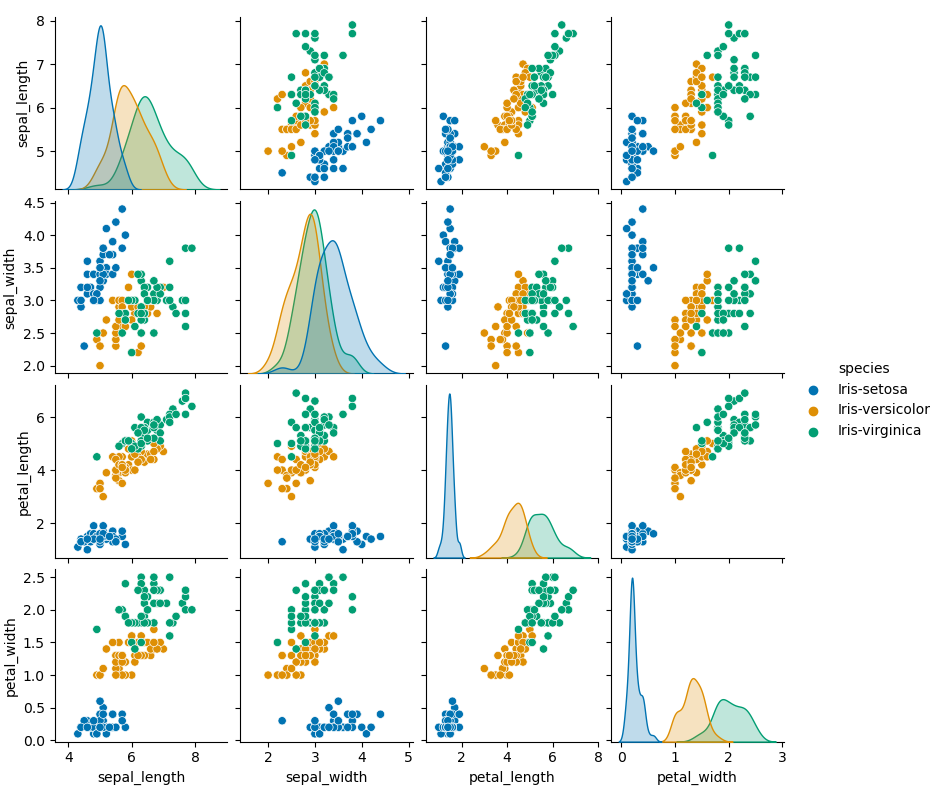
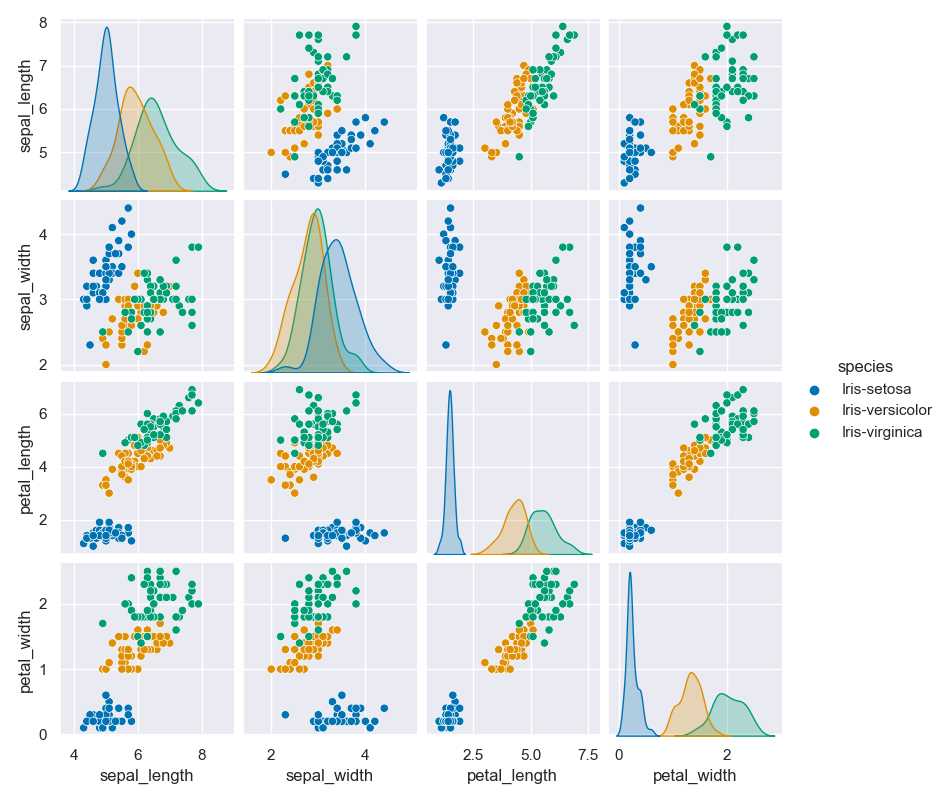
updates to README and dataVis.py

diff --git a/dataVis.py b/dataVis.py
@@ -88,8 +88,14 @@ def petal_sepal_width_relation():
 
 # Now Let's look at the attributes using a scatterplot within seaborn
 def pair_plots():
+    # Set title below
+    sns.set(style="darkgrid")
+    pp = sns.pairplot(df, hue="species", height = 2, palette = 'colorblind')
+    #pp.add_legend(title="Relationships between all pairs of variables")
+    #pp.fig.suptitle("Title", y=1.08)
+    #pp.set_title("Title")
     cn = ['setosa', 'versicolor', 'virginica']
-    sns.pairplot(df, hue="species", height = 2, palette = 'colorblind')
+    #sns.pairplot(df, hue="species", height = 2, palette = 'colorblind')
     #plt.show()
     plt.savefig('Data Visualisation/pair_plots.png')
     return
@@ -106,7 +112,6 @@ def box_plots():
     sns.boxplot( y='sepal_width', x= 'species', data=df, orient='v' , ax=axes[1, 1])
     #plt.show()
     plt.savefig('Data Visualisation/box_plots.png')
-
     return
 
 
@@ -159,7 +164,7 @@ def histo_plots():
 #species()
 #petal_sepal_length_relation()
 #petal_sepal_width_relation()
-#pair_plots()
+pair_plots()
 #box_plots()
 #box_violin_plots()
 #histo_plots()

diff --git a/README.md b/README.md
@@ -227,7 +227,7 @@ A histogram is different to a bar chart because the bars are connected to each o
 It can be thought of as a picture of the data and in the histograms below:
 - The height of each bar represents the count of each iris (frequency) of that variable
 
-
+<img src="Data Visualisation/histograms.png" alt="Histograms of variables">
 
 
 
